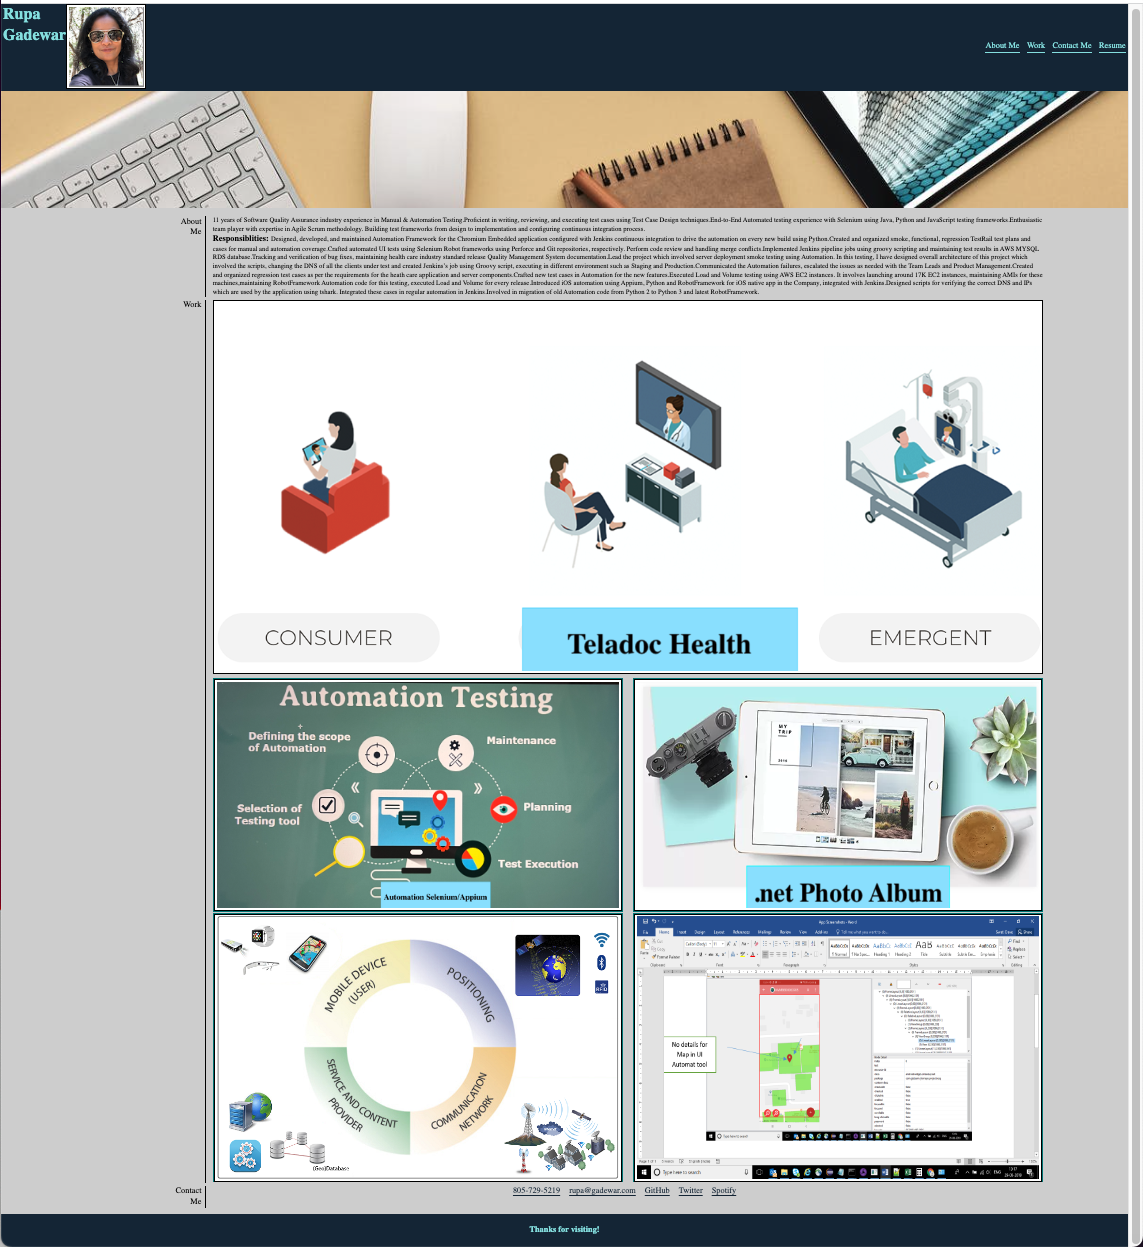
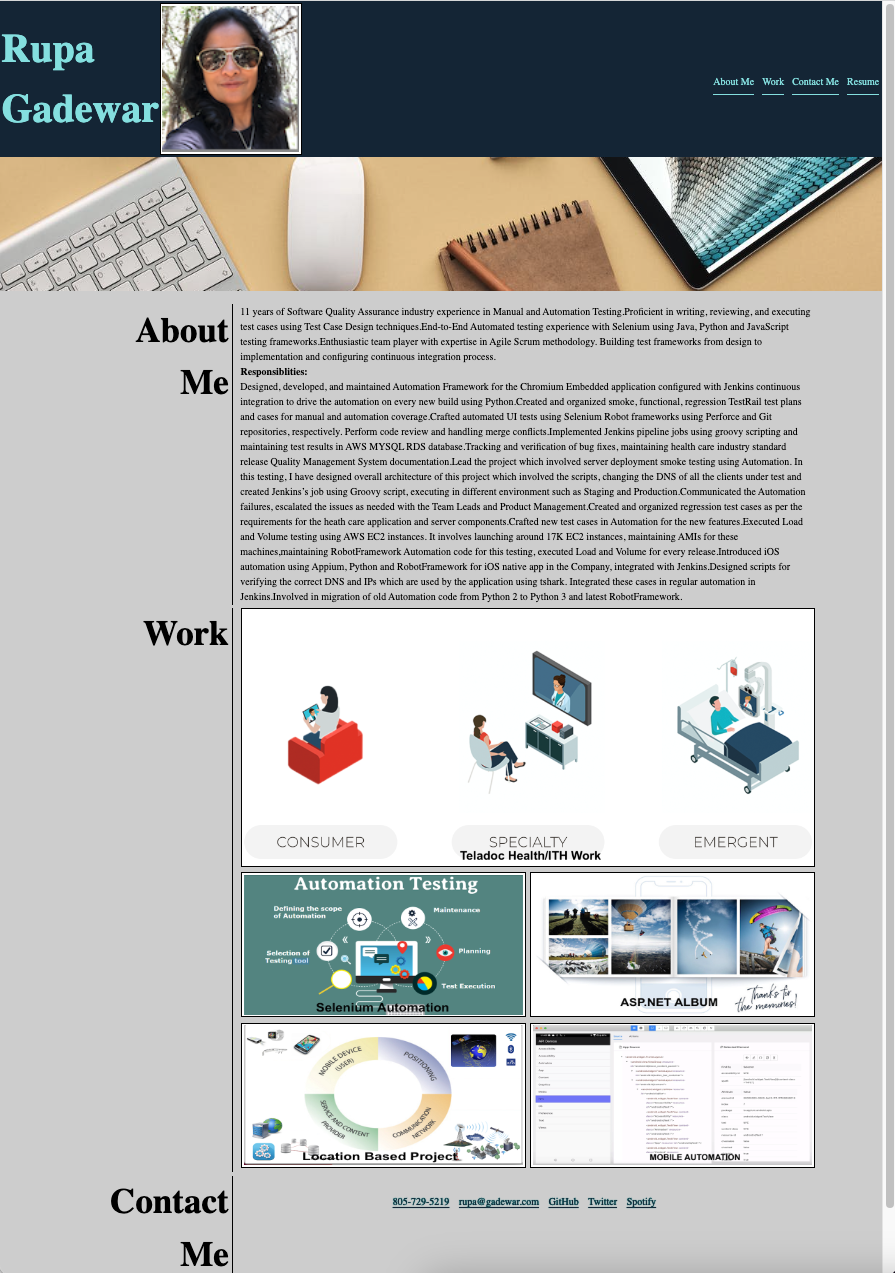
Readme changes

diff --git a/index.html b/index.html
@@ -4,7 +4,7 @@
 <head>
     <meta charset="UTF-8" />
     <link rel="stylesheet" href="./assets/css/reset.css" />
-    <link rel="stylesheet" href="./assets/css/style1.css">
+    <link rel="stylesheet" href="./assets/css/style.css">
     <title>Rupa Gadewar Portfolio</title>
 </head>
 
@@ -76,7 +76,7 @@
         <section class="blue">
           <section class="big-image">
             <div class="brightness">
-            <a href="https://intouchhealth.com/"><img src="./assets/images/ith.png" alt="Work at Teladoc Health" ></a>
+            <a href="https://intouchhealth.com"><img src="./assets/images/ith.png" alt="Work at Teladoc Health" ></a>
             </div>
           </section>
           <!-- https://dev.to/dawnind/3-ways-to-display-two-divs-side-by-side-3d8b -->

diff --git a/README.md b/README.md
@@ -1,6 +1,6 @@
 # challenge2
 ## Description
-In this section, I have applied all the concepts of HTML and CSS, particularly flex and diaply properties. I have used CSS skills which we learnt in class.
+In this section, I have applied all the concepts of HTML and CSS, particularly flex,media queries and display properties. I have used CSS skills which we learnt in class. It was a great exercise.
 
 - [Website Preview](#website-preview)
 - [Credits](#credits)
@@ -8,7 +8,6 @@ In this section, I have applied all the concepts of HTML and CSS, particularly f
     - [Git Cheat Sheet](#git-cheat-sheet-pdf)
     - [Git Flow Process](#git-flow-process)
     - [HTML Reference](#html-reference)
-    - [ITH PNG Reference](#ITH PNG Reference)
 - [How To Contribute](#how-to-contribute)
 ## Website Preview
 [Horiseon Website Link](https://rgadewar.github.io/challenge2/)
@@ -28,8 +27,17 @@ N/A
 [![name](assets/images/github-flow.PNG)](https://docs.github.com/en/get-started/quickstart/github-flow)
 ### HTML Reference
 [![name](assets/images/htmlref.png)](https://www.w3schools.com/tags/tag_meta.asp)
-### ITH PNG Reference
-[![name](assets/images/ith.png)](https://intouchhealth.com/)
+### HTML Reference1
+[![name](assets/images/ith.png)](https://www.intouchhealth.com)
+
+## Image credits
+https://https://intouchhealth.com
+https://unsplash.com/s/photos/portfolio
+https://gistbok.ucgis.org/bok-topics/location-based-services
+https://www.educba.com/automation-testing/
+https://www.pexels.com/search/cool%20wallpaper/
+https://www.lambdatest.com/blog/appium-inspector-for-apps/
+https://celestialsys.com/blogs/web-automation-with-selenium-webdriver-using-python-part-2
 
 ## Thank you all
 Everyone helped in this first challenge. Study group also helped in this process. Thank you to everyone.
@@ -68,17 +76,3 @@ GitHub DocsGitHub Docs
 GitHub flow - GitHub Docs
 Follow GitHub flow to collaborate on projects. (7 kB)
 https://docs.github.com/en/get-started/quickstart/github-flow
-
-
-<!-- https://unsplash.com/s/photos/portfolio
-https://unsplash.com/photos/zwsHjakE_iI
-https://blog.flipsnack.com/how-to-make-a-good-digital-photo-album/
-https://gistbok.ucgis.org/bok-topics/location-based-services
-
-https://discuss.appium.io/t/how-to-click-by-image-in-mobile-app-by-appium/27664
-https://www.educba.com/automation-testing/
-https://www.dreamstime.com/photos-images/software-testing.html
-https://www.pexels.com/search/cool%20wallpaper/
-https://www.lambdatest.com/blog/appium-inspector-for-apps/
-https://celestialsys.com/blogs/web-automation-with-selenium-webdriver-using-python-part-2
--->
